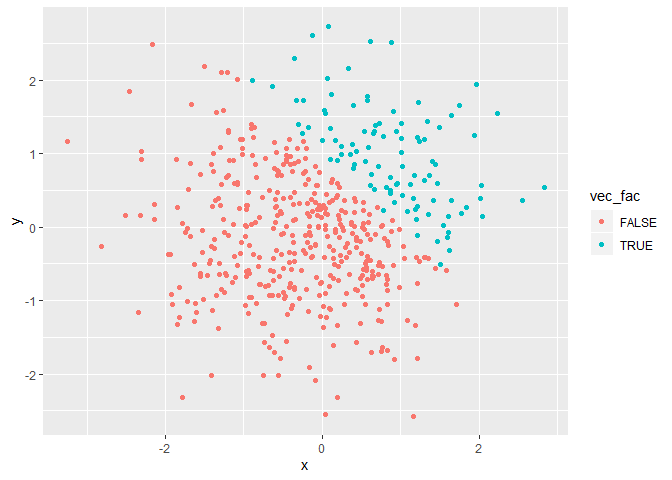
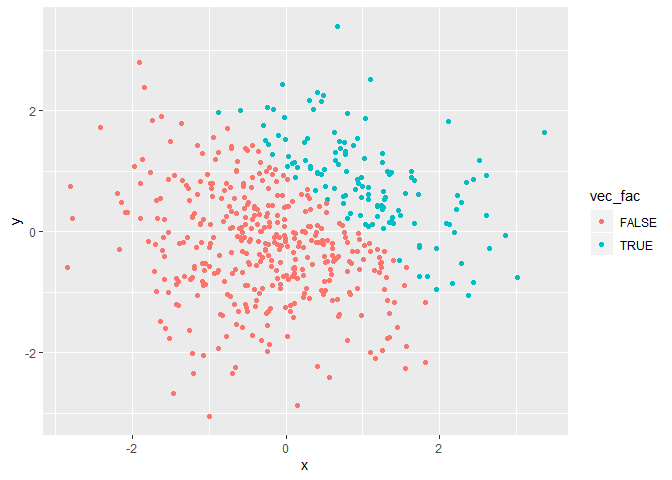
modify the R Markdown file

diff --git a/p8105_hw1_yq2279.md b/p8105_hw1_yq2279.md
@@ -20,7 +20,7 @@ library(tidyverse)
     ## x dplyr::filter() masks stats::filter()
     ## x dplyr::lag()    masks stats::lag()
 
-First, we Create a dataframe containing variables of four different
+First, we create a dataframe containing variables of four different
 types, and try to take the mean of each variable in the dataframe.
 
 ``` r
@@ -29,24 +29,38 @@ df = tibble(
   vec_numeric = rnorm(8),
   vec_logical = vec_numeric > 0,
   vec_char = c("My", "name", "is", "Chloe", ".", "Good", "day", "."),
-  vec_factor = factor(c("male", "male", "female", "female", "male", "male", "male", "female"))
+  vec_factor = factor(c("male", "male", "female", "female", "trans", "trans", "male", "female"))
 )
 
 # take the mean of each variable
-mean_numeric = mean(pull(df, vec_numeric))
-mean_logical = mean(pull(df, vec_logical))
-mean_char = mean(pull(df, vec_char))
+mean(pull(df, vec_numeric))
+```
+
+    ## [1] -0.2116698
+
+``` r
+mean(pull(df, vec_logical))
+```
+
+    ## [1] 0.5
+
+``` r
+mean(pull(df, vec_char))
 ```
 
     ## Warning in mean.default(pull(df, vec_char)): argument is not numeric or
     ## logical: returning NA
 
+    ## [1] NA
+
 ``` r
-mean_factor = mean(pull(df, vec_factor))
+mean(pull(df, vec_factor))
 ```
 
     ## Warning in mean.default(pull(df, vec_factor)): argument is not numeric or
     ## logical: returning NA
+
+    ## [1] NA
 
 From the above we can see when taking the mean, the numerical vector and
 logical vector work, the character vector and the factor vector don’t.
@@ -55,13 +69,20 @@ Next, we convert the logical, character, and factor variables to
 numeric.
 
 ``` r
-logical_to_num = as.numeric(pull(df, vec_logical))
-char_to_num = as.numeric(pull(df, vec_char))
-factor_to_num = as.numeric(pull(df, vec_factor))
+as.numeric(pull(df, vec_logical))
+as.numeric(pull(df, vec_char))
+as.numeric(pull(df, vec_factor))
 ```
 
-The logical and factor variables can be converted, and the character
-variable cannot.
+The logical variable is converted to a numeric varible with elements “0”
+and “1”. This is because “0” means “false” and “1” means “true”, which
+also explains why logical varibles can take the mean. The factor
+variable is converted to a numeric varible with elements “1”, “2” and
+“3”. This is because the elements in the fator variable have three
+levels. But you cannot take the mean because there is no mean for
+levels. The character variable is converted to a numeric varible with
+elements NA. This is because different character elements cannot be
+assigned a numeric value. So it cannot take the mean.
 
 Now, we do the last part of problem 1.
 
@@ -125,8 +146,8 @@ df = tibble(
 
   - The size of the dataset is nrow = 500, ncol = 5.
 
-  - the mean, median, and standard deviation of x is -0.1154954,
-    -0.0801124, and 0.9664101.
+  - the mean, median, and standard deviation of x is 0.0391911,
+    -0.0144271, and 1.0526975.
 
 Then make a scatterplot of y vs x; color points using the logical
 variable.
@@ -143,8 +164,7 @@ ggsave(file = "plot_logical_variable.png")
 
     ## Saving 7 x 5 in image
 
-Color points using the numeric
-variable.
+Color points using the numeric variable.
 
 ``` r
 ggplot(df, aes(x = x, y = y, color = vec_num)) + geom_point()
@@ -152,8 +172,7 @@ ggplot(df, aes(x = x, y = y, color = vec_num)) + geom_point()
 
 ![](p8105_hw1_yq2279_files/figure-gfm/plot%20numeric%20variable-1.png)<!-- -->
 
-Color points using the numeric
-variable.
+Color points using the numeric variable.
 
 ``` r
 ggplot(df, aes(x = x, y = y, color = vec_fac)) + geom_point()
